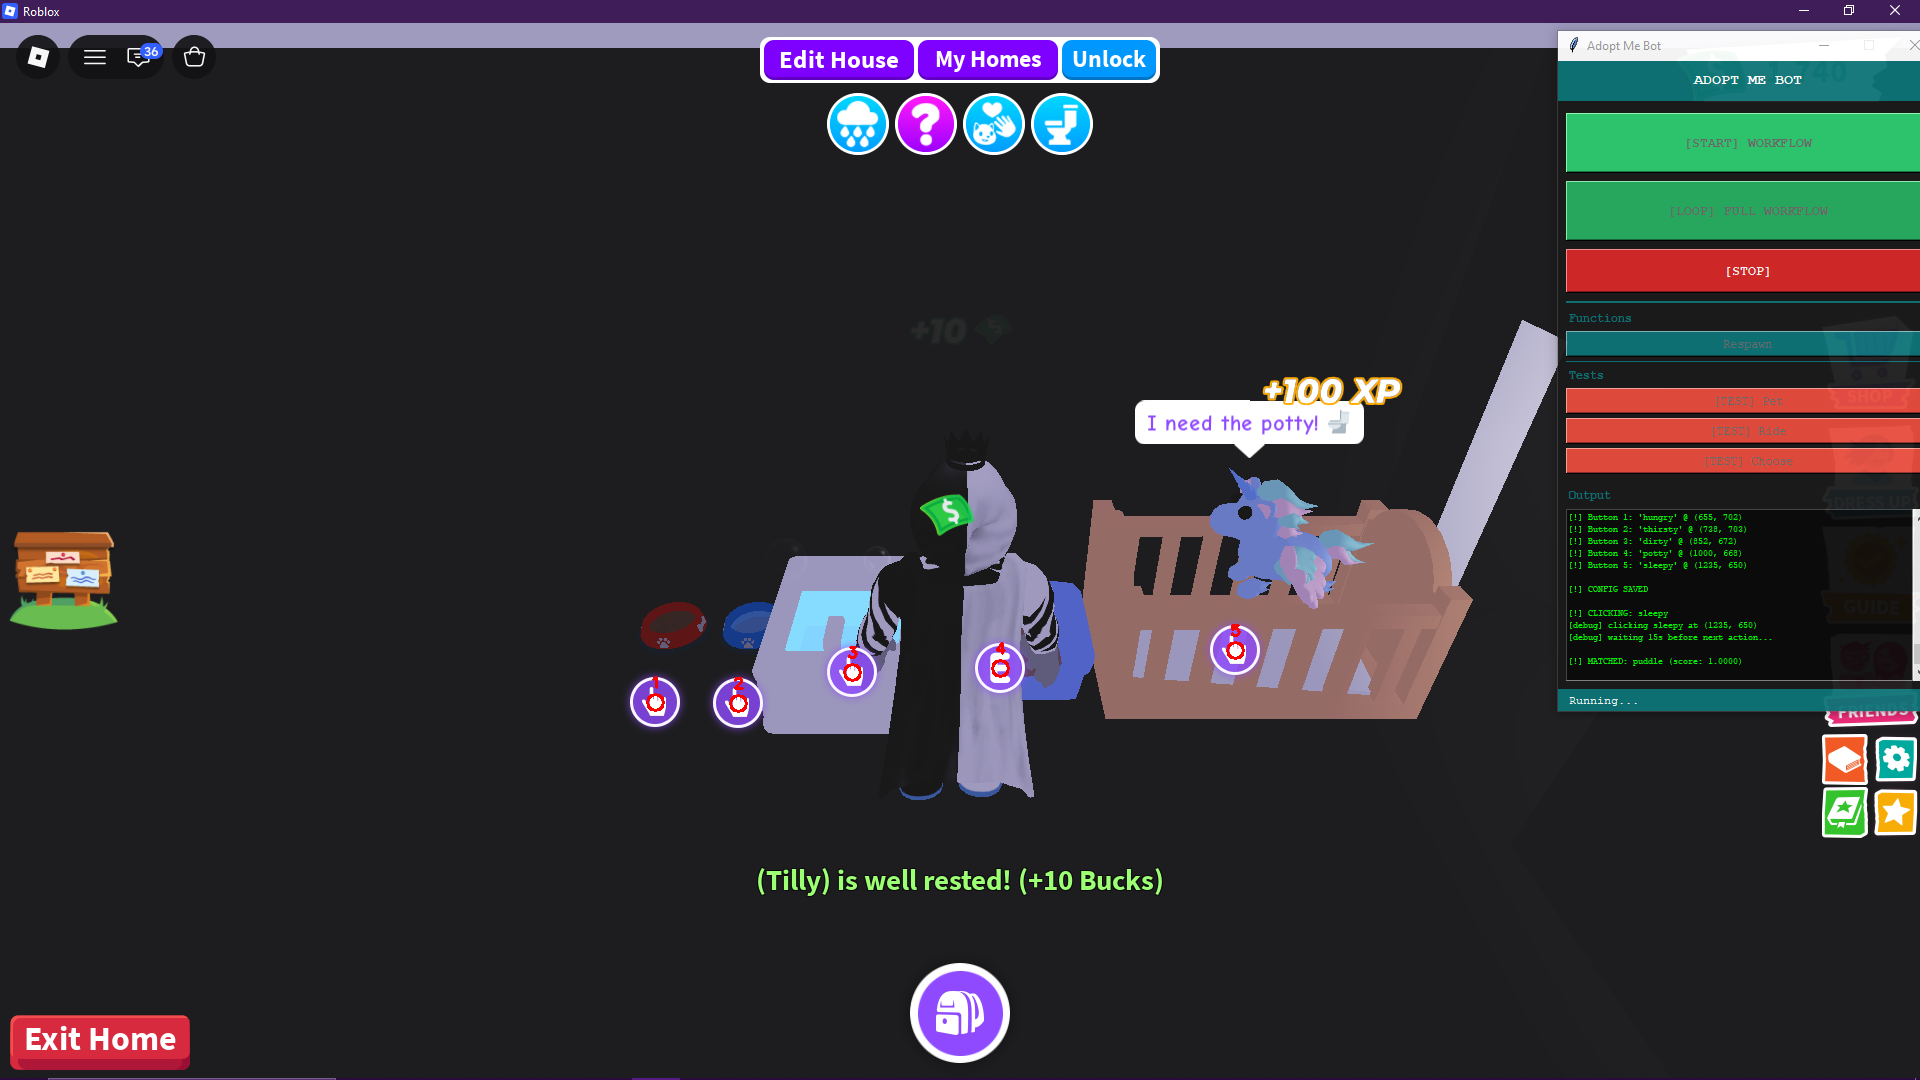
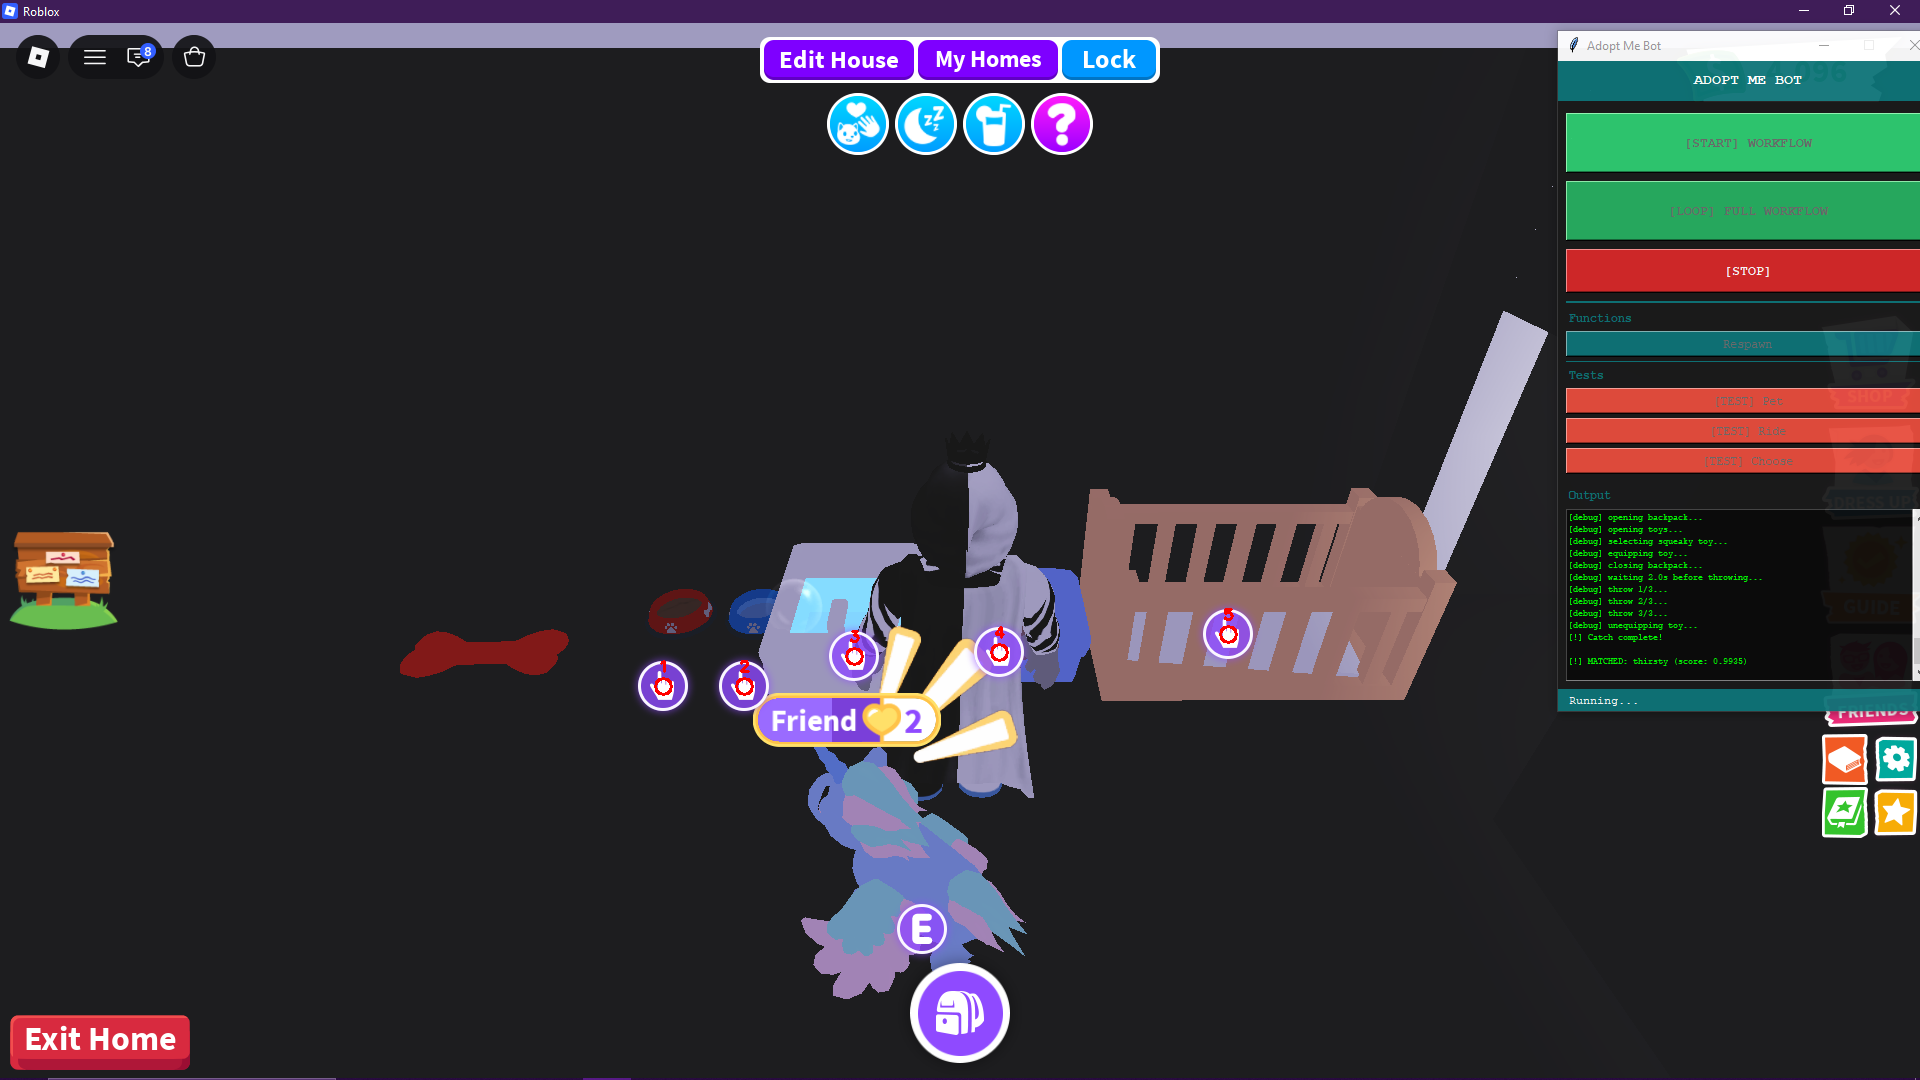
Changed numbers

diff --git a/main.py b/main.py
@@ -144,11 +144,11 @@ PET_CIRCLE_DURATION = 10.0     # how long to make circles with mouse
 CATCH_TOYS_POS = (754, 854)
 CATCH_SQUEAKY_TOY_POS = (976, 875)
 CATCH_EQUIP_POS = (1083, 980)
-CATCH_UNEQUIP_POS = (1089, 977)
+CATCH_UNEQUIP_POS = (1054, 983)
 
 # A spot on screen that's just empty game world - no UI, no character menu.
 # Used as the "click into empty space" throw motion in catch.
-EMPTY_POS = (380, 557)
+EMPTY_POS = (142, 233)
 
 # Click this to open the pet's interaction menu (pet/weather/feed/dress up/
 # tricks/pick up/ride/fly icons arranged around the pet).
@@ -168,6 +168,10 @@ RIDE_VEHICLES_POS = (816, 804)
 RIDE_FIRST_VEHICLE_POS = (976, 708)
 RIDE_EQUIP_POS = (1062, 814)
 RIDE_WALK_DURATION = 40.0      # total time spent walking back and forth while riding
+
+# Pen check
+TASK_BOARD_POS = (60, 576)
+READY_POS = (1029, 485)
 
 # Window focus click (near top edge, right of center)
 FOCUS_CLICK_X_PERCENT = 0.75
@@ -772,15 +776,9 @@ class PetNeedHandler(NeedHandler):
         if not focus_roblox():
             return False
 
-        # First e press
-        print("[debug] pressing e (first)...")
-        pydirectinput.press('e')
-        wait_interruptible(PET_FIRST_E_WAIT)
-
-        # Second e press
-        print("[debug] pressing e (second)...")
-        pydirectinput.press('e')
-        wait_interruptible(2)
+        print("[debug] focusing pet...")
+        jitter_click(*FOCUS_PET_POS)
+        wait_interruptible(UI_SETTLE)
 
         # Hold the mouse button down and trace a circle around the middle of the screen
         print(f"[debug] holding mouse and circling for {PET_CIRCLE_DURATION}s...")
@@ -789,7 +787,7 @@ class PetNeedHandler(NeedHandler):
 
         # Move to the circle's starting point before pressing down, so the
         # button goes down already on the circle rather than jumping to it.
-        pyautogui.moveTo(center_x + circle_radius, center_y, duration=0.1)
+        pyautogui.moveTo(center_x+circle_radius, center_y, duration=0.1)
         pydirectinput.mouseDown()
         try:
             start_time = time.time()
